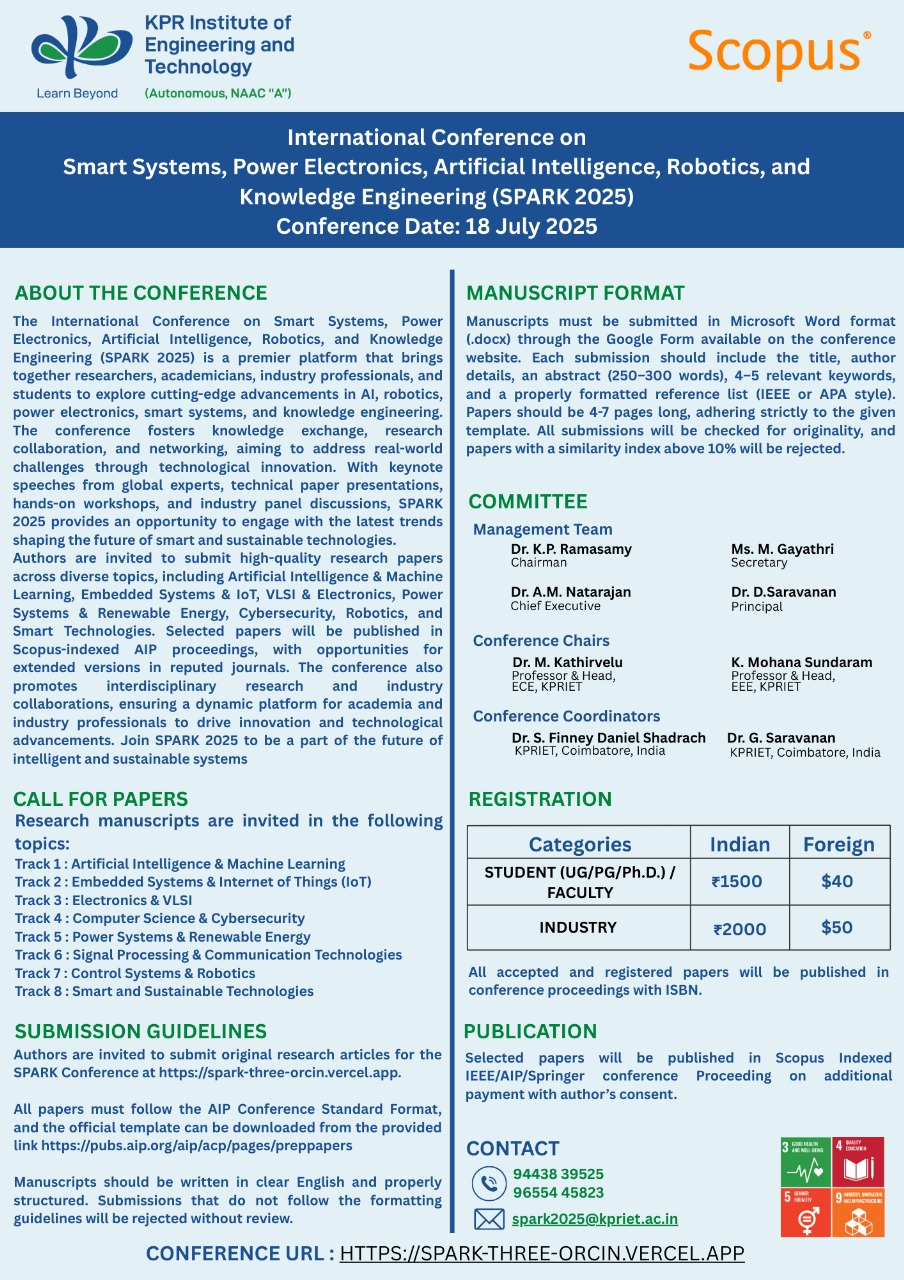
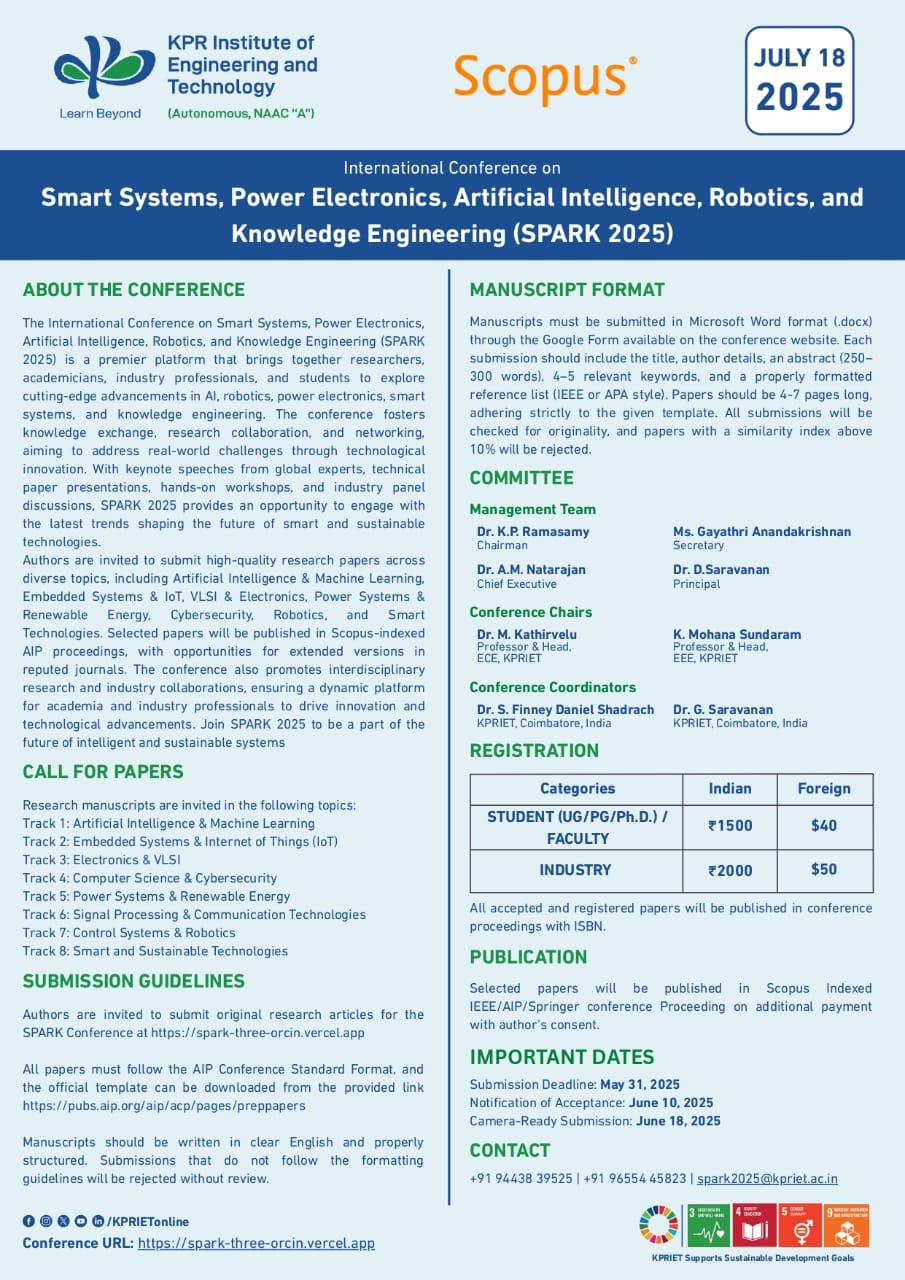
Add Brochure page and update links in Header and Call components

diff --git a/src/pages/call.jsx b/src/pages/call.jsx
@@ -1,5 +1,5 @@
 import '../styles/call.css'
-import { FaLinkedin, FaTwitter, FaPhoneAlt, FaCalendarAlt, FaPaperPlane, FaCamera, FaBell, FaCalendarMinus, FaFileDownload, FaFileWord, FaInstagram, FaGlobe } from "react-icons/fa"
+import { FaLinkedin, FaCalendarAlt, FaPaperPlane, FaCamera, FaBell, FaCalendarMinus, FaFileDownload, FaFileWord, FaInstagram, FaGlobe } from "react-icons/fa"
 import img1 from '../assets/img1.png'
 import img2 from '../assets/img2.png'
 import img3 from '../assets/img3.png'
@@ -8,7 +8,6 @@ import img5 from '../assets/img5.png'
 import img6 from '../assets/img6.png'
 import img7 from '../assets/img7.png'
 import img8 from '../assets/img8.png'
-import { FaWebAwesome, FaWebflow } from 'react-icons/fa6'
 
 function Call() {
     return (
@@ -191,7 +190,7 @@ function Call() {
                 <div className="sidebar-section">
                     <h3><i className="fa-solid fa-download"></i> More Details</h3>
                     <div className="download-links">
-                        <a href="https://drive.google.com/file/d/18rZ194D-BlNOfBFEkEv3s21ybQ2DM7Kz/vi" className="download-link" target='blank'><FaFileDownload /> Brochure</a>
+                        <a href='./Brochure' className="download-link" target='blank'><FaFileDownload /> Brochure</a>
                         <a href="./Guidelines" className="download-link"><FaFileWord /> Submission Guidelines</a>
                     </div>
                 </div>

diff --git a/src/App.jsx b/src/App.jsx
@@ -1,4 +1,4 @@
-import { Routes, Route } from 'react-router-dom';
+import { Routes, Route, useLocation} from 'react-router-dom';
 import { Analytics } from "@vercel/analytics/react"
 import { SpeedInsights } from "@vercel/speed-insights/react"
 import ScrollToTop from './components/ScrollToTop';
@@ -16,12 +16,17 @@ import Guidelines from './pages/guidelines';
 import Accommodation from './pages/accommodation'
 import Venue from './pages/venue'
 import Register from './pages/register'
+import Brochure from './pages/brochure';  
 
 function App() {
+
+  const location = useLocation();
+  const isBrochurePage = location.pathname === '/Brochure';
+
   return (
     <>
     <ScrollToTop />  {/* component Used for Scroll to top of a page */}
-      <Header />
+      {!isBrochurePage && <Header />}
       <Routes >
         <Route path='/' element={<Home />} />
         <Route path='/Home' element={<Home />} />
@@ -36,8 +41,9 @@ function App() {
         <Route path='/Accommodation' element={<Accommodation />} />
         <Route path='/Venue' element={<Venue />} />
         <Route path='/Register' element={<Register />} />
+        <Route path='/Brochure' element={<Brochure />} />
       </Routes >
-      <Footer />
+      {!isBrochurePage && <Footer />}
       <Analytics />
       <SpeedInsights />
     </>

diff --git a/src/components/header.jsx b/src/components/header.jsx
@@ -67,7 +67,7 @@ function Header() {
             <Link>Register &#x2B9F;</Link>
             <div className={activeDropdown==="regis" ? "dropdown-show" : "dropdown-hide"} >
               <Link to="/Register" onClick={hamMenu}><p>Register</p></Link>
-              <Link to='https://asd.drive.com' target="_blank" onClick={hamMenu}>
+              <Link to='/Brochure' target="_blank" onClick={hamMenu}>
                 <p>Download Brochure</p>
               </Link>
             </div>

diff --git a/src/pages/brochure.jsx b/src/pages/brochure.jsx
@@ -1,0 +1,9 @@
+import brochure from '../assets/Brochure.jpg'
+
+function Brochure() {
+    return (
+        <img src={brochure} alt="Brochure" style={{ display: "block", margin: "0 auto" }} />
+    )
+}
+
+export default Brochure
